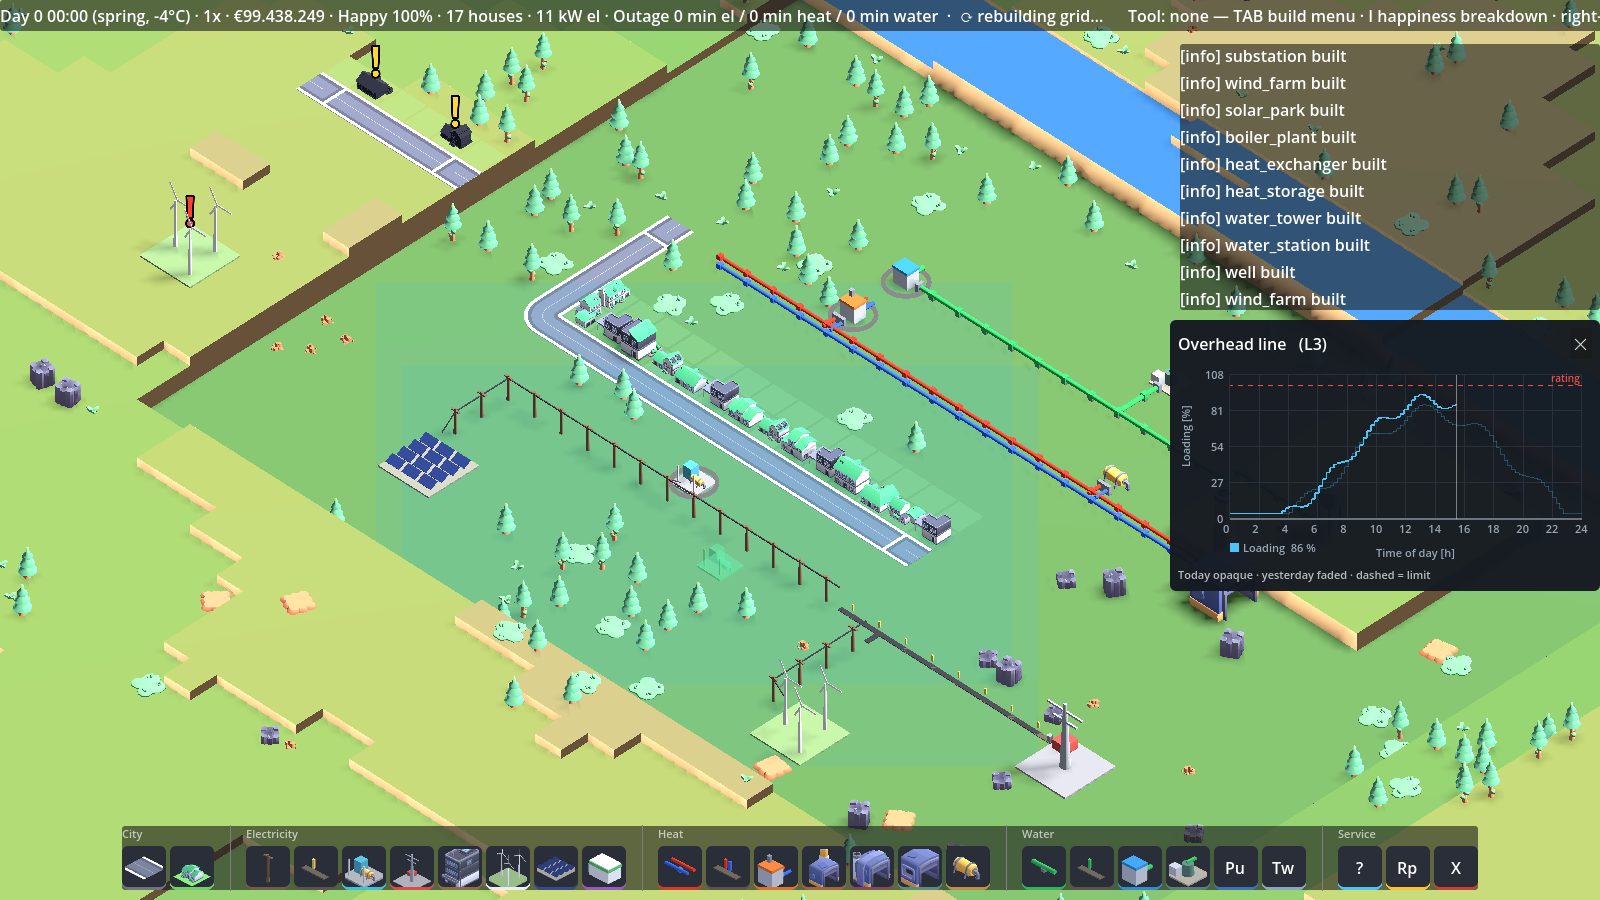
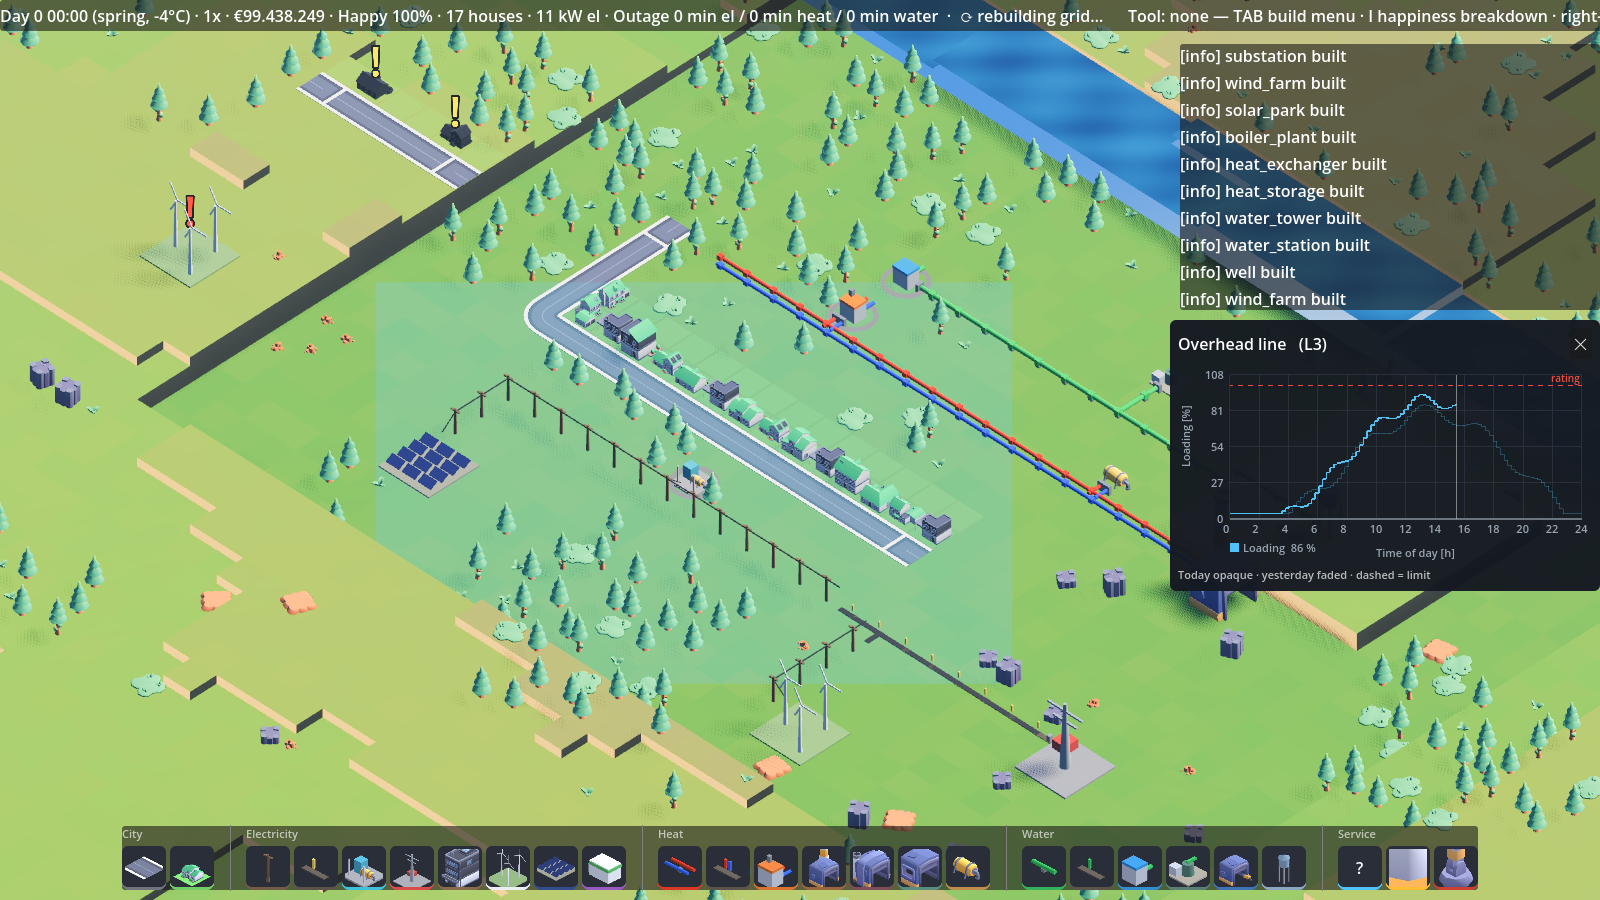
Graphics realism pass (SynerGame-style look)
Renderer switched gl_compatibility -> Forward+ (Vulkan): SSAO, soft warm
sun shadows, ACES tonemapping, procedural sky ambient, gentle glow and
distance fog, +MSAA 2x. Terrain gets warmer saturated meadow greens with
per-tile hash patchiness; rivers move to their own surface with an
animated shimmer shader (sun glints, deep/shallow mix); forest masses
denser (grove threshold + density up, riparian denser); residential zone
overlay subtler so the land reads through.

Forward+ gotcha pinned in CLAUDE.md: vertex colors are LINEAR by default
— the terrain material needs vertex_color_is_srgb or every green renders
bleached (cost one iteration loop). Fog stronger than ~0.0006 washes the
whole frame at the camera's ~90-unit orbit.

GdUnit 91/91; sidecars/saveload/coldsnap smokes green (headless uses the
dummy driver, unaffected). Exported builds now need a Vulkan-capable GPU.

diff --git a/CLAUDE.md b/CLAUDE.md
@@ -210,6 +210,13 @@ pandapower pins, keep separate), `.venv-water` (rtwaterflow).
   restore clock BEFORE `Scenarios.start` (start_day reads the clock).
 - **Screenshots need a real window** (headless GPU capture hangs); the batch
   Add-Content BOM corrupts JSON — use the Write tool for config files.
+- **Renderer is Forward+ since the graphics pass (2026-07-30)** — SSAO,
+  soft shadows, ACES, sky ambient, animated water shader. Exported builds
+  need a Vulkan-capable GPU (Win 11 era hardware is fine). CRITICAL
+  Forward+ gotcha: vertex colors are LINEAR by default — vertex-colored
+  meshes (terrain) need `vertex_color_is_srgb = true` or every authored
+  color renders bleached pastel (cost one debugging loop). Headless smokes
+  are unaffected (dummy driver).
 - **Godot 4 has NO "standalone" feature tag** — detect exported builds via
   the ABSENCE of "editor" (`globalize_path("res://")` is useless in exports;
   use `OS.get_executable_path().get_base_dir()`). ISCC dies on MAX_PATH for
